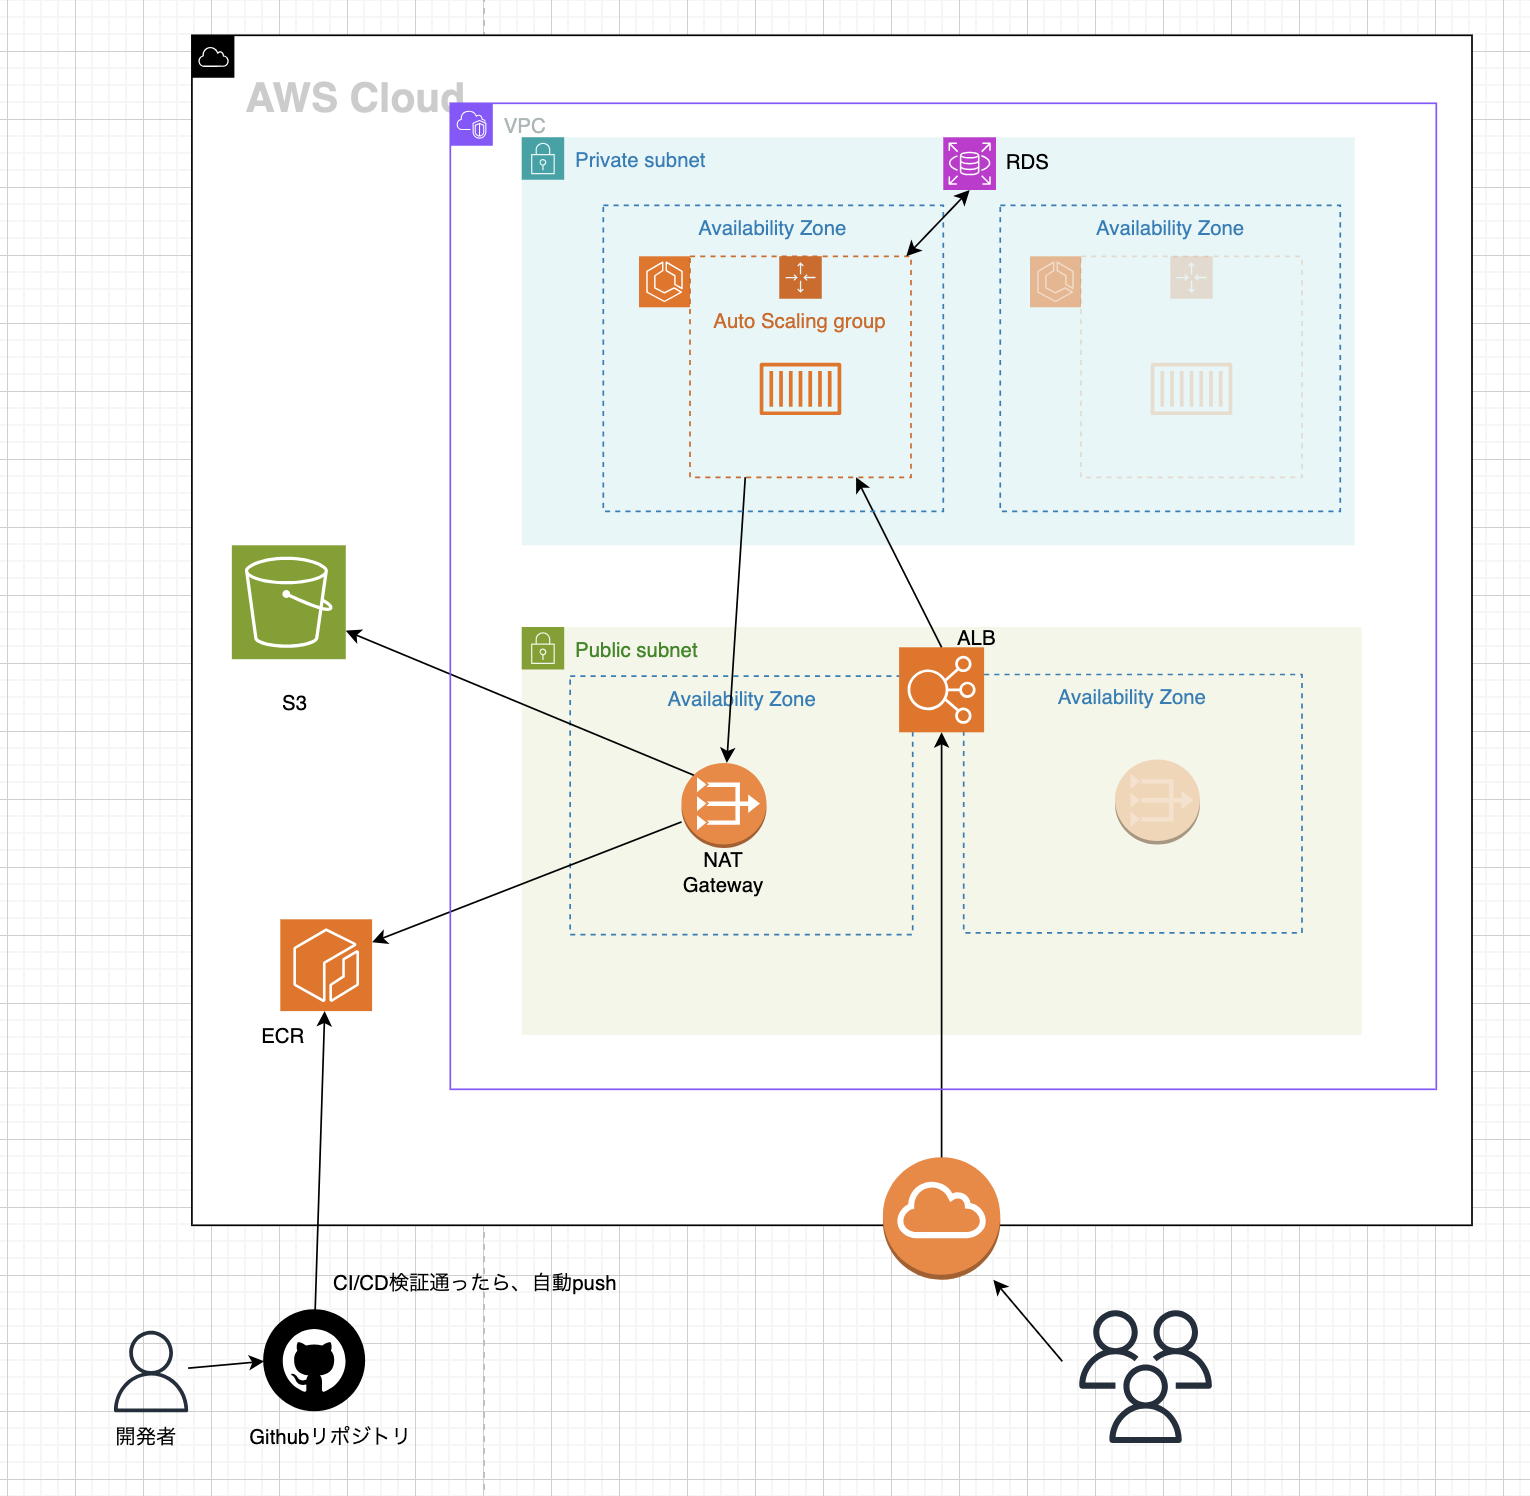
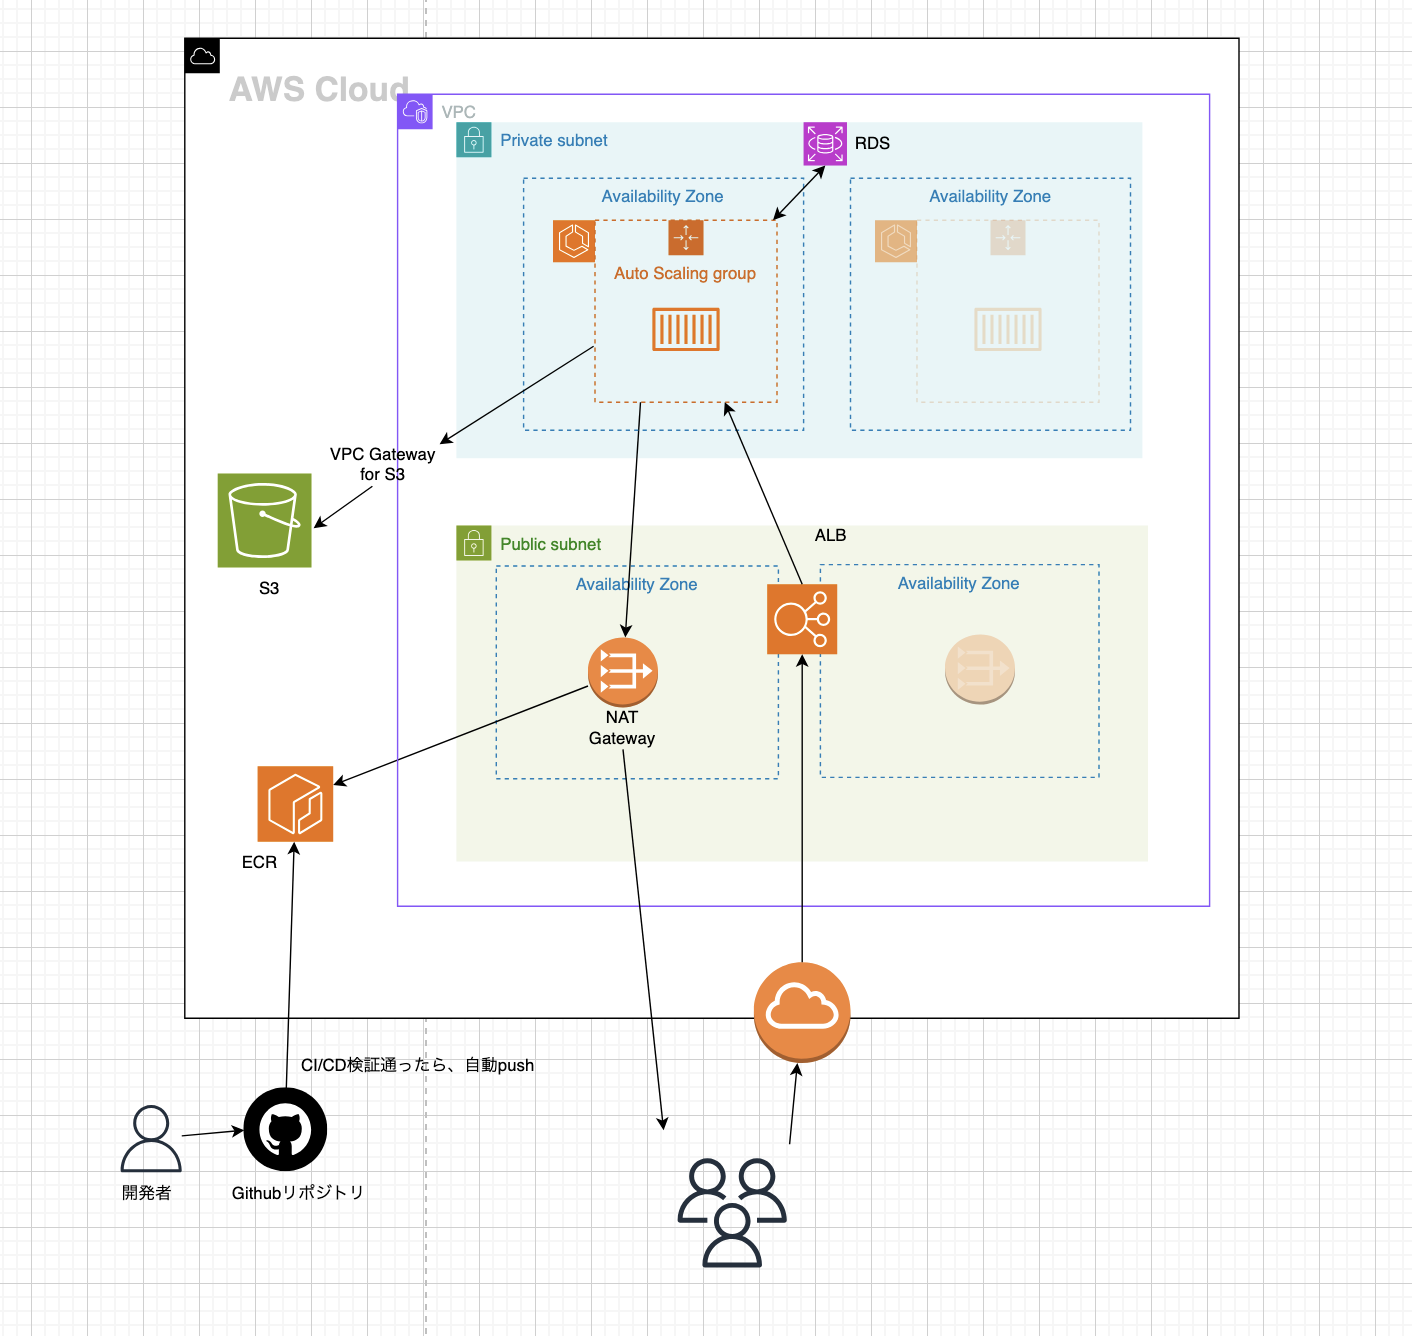
更新

diff --git a/README.md b/README.md
@@ -12,7 +12,7 @@ RailsアプリケーションをAWS上で動かすためのインフラ構成を
 |-----|------|
 | Users → IGW → ALB → ECS | ユーザーからのリクエスト |
 | ECS → RDS | データベース接続 |
-| ECS → NAT GW → IGW → S3/ECR | ファイルアクセス / イメージ取得 |
+| ECS → VPC GW for S3 → S3/ECR | ファイルアクセス / イメージ取得 |
 | 開発者 → GitHub → ECR | CI/CDでイメージをpush |
 
 ## ファイル構成
